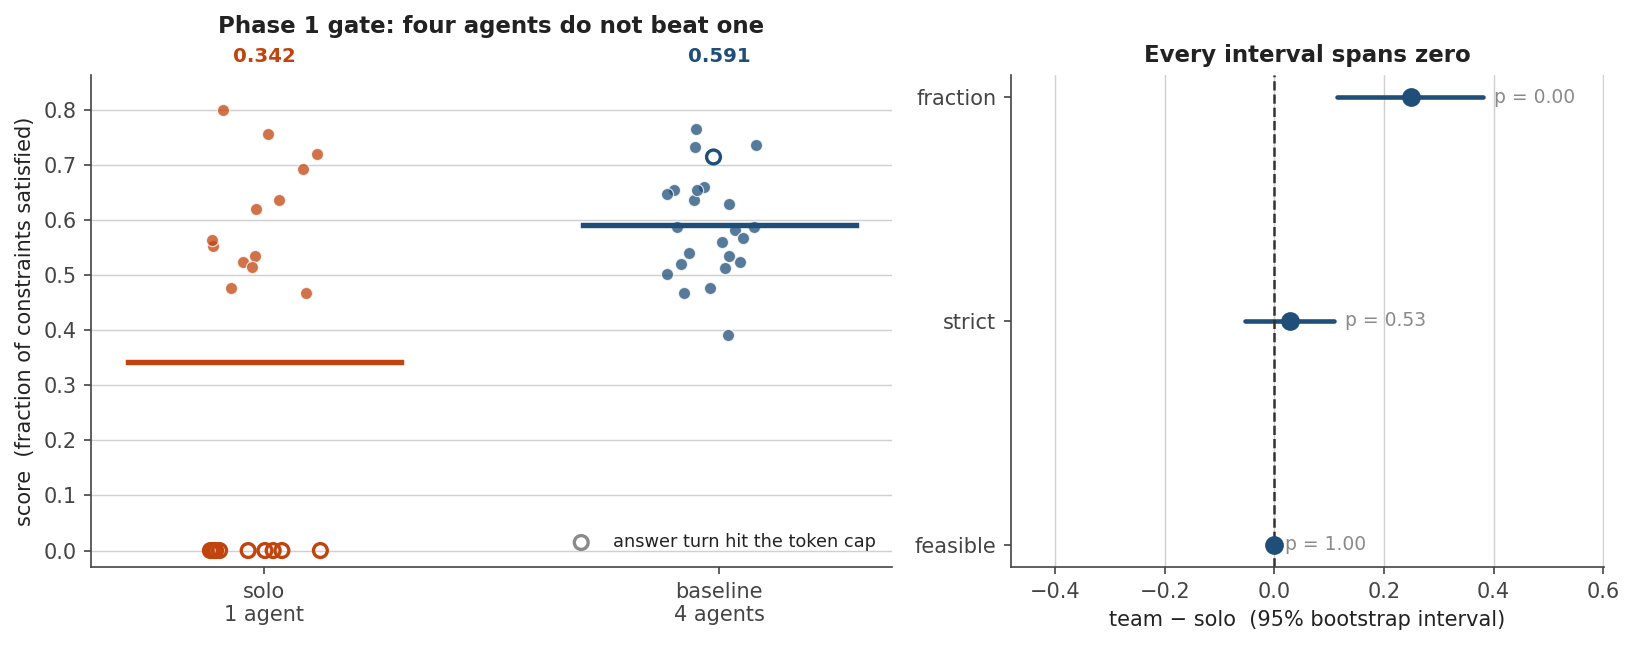
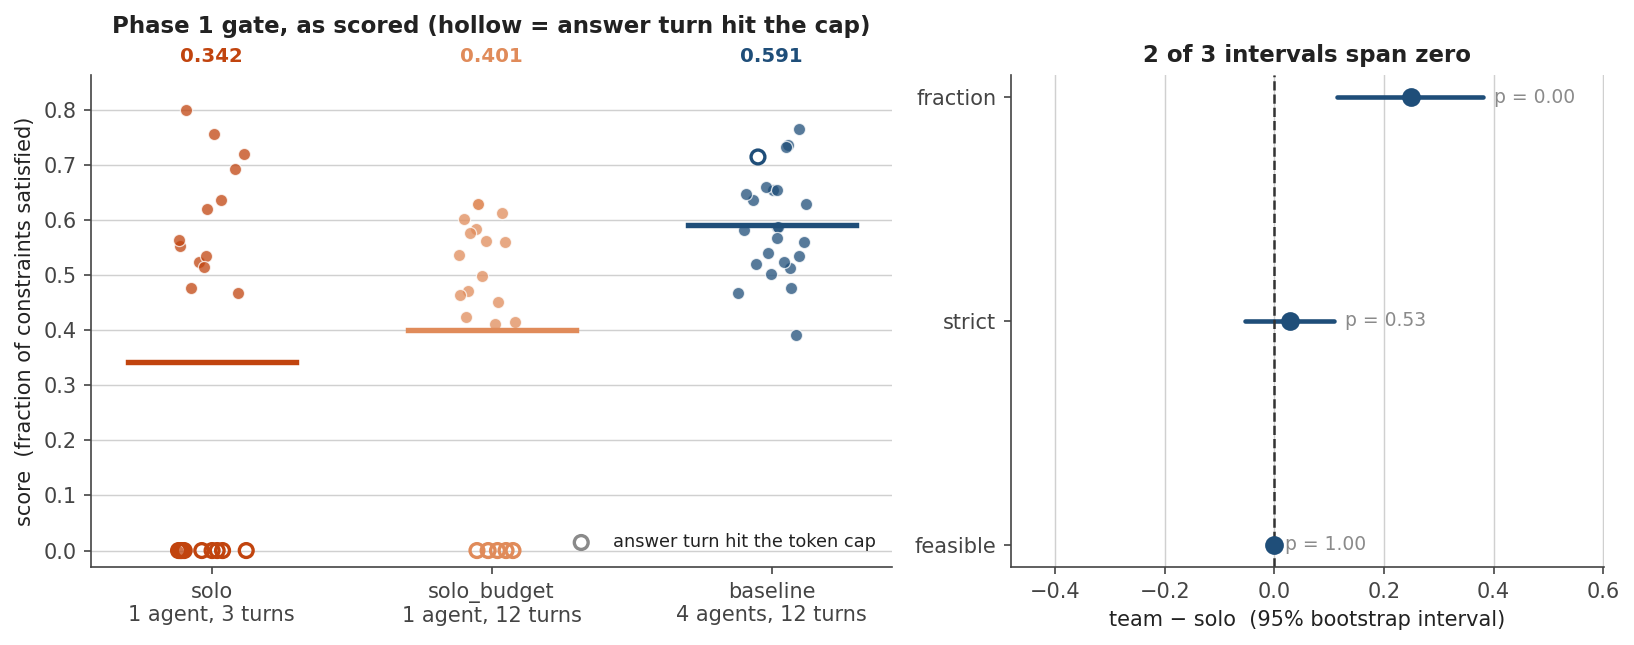
C4 at xhard: +0.003, p=0.962 -- withdraw the two-tier claim
The matched-budget effect does not survive the third tier. Controlled gaps
run +0.082, +0.059, +0.003 at p = 0.039, 0.045, 0.962: two results barely
under the threshold and one at zero, declining monotonically along the
independent variable. This log retracted the 4.1b variance claim for
exactly that profile, and the same standard applies here.

It also fails for a reason worth more than the failure. The gap closes
because the team declines -- 0.631 -> 0.585 -> 0.530 -- not because the
lone agent improves; solo_budget is flat at 0.549/0.526/0.527. Only the
team trends, and it trends down, with its own repetition rate rising to 11%
at xhard. Whatever keeps four agents out of a loop weakens as instances
grow, which is the opposite of the scaling H1 assumed.

What survives all three tiers is not about teams: three-turn solo is the
best configuration measured, ahead at two of three points on ~2,400 output
tokens against the team's ~5,400, and a lone agent given four times the
budget is worse at every tier.

4.12b keeps the withdrawn version verbatim. The word that did the damage
was "reproducible", written across two points about a quantity already
falling between them. Two points are not a replication when the effect is
shrinking between them, and p=0.039 with p=0.045 is one weak signal
measured twice, not two confirmations.

Figures: the gate panel titles asserted conclusions the data had stopped
supporting -- "Every interval spans zero" while fraction sat at p<0.001
[…]

diff --git a/scripts/figures.py b/scripts/figures.py
@@ -55,9 +55,12 @@ TEAM_LIGHT = "#7ba7cc"
 GREY = "#8a8a8a"
 RULE = "#d0d0d0"
 
+SOLO_LIGHT = "#e08b5a"
+
 ARMS = [
-    ("solo", "solo\n1 agent", SOLO),
-    ("baseline", "baseline\n4 agents", TEAM),
+    ("solo", "solo\n1 agent, 3 turns", SOLO),
+    ("solo_budget", "solo_budget\n1 agent, 12 turns", SOLO_LIGHT),
+    ("baseline", "baseline\n4 agents, 12 turns", TEAM),
     ("symmetry:name_seed_scratch", "symmetry\nname+seed", TEAM_LIGHT),
     ("fixed_order", "fixed order\ncontrol", TEAM_LIGHT),
 ]
@@ -193,7 +196,13 @@ def fig_gate(by, out: Path, cut_flags: dict[str, list[bool]] | None = None) -> N
     ax1.set_xticks(range(len(ARMS)))
     ax1.set_xticklabels([a[1] for a in ARMS])
     ax1.set_ylabel("score  (fraction of constraints satisfied)")
-    ax1.set_title("Phase 1 gate: four agents do not beat one", pad=20)
+    # "four agents do not beat one" was the controlled conclusion printed over
+    # uncontrolled points. On the served `hard` corpus the raw means are 0.342
+    # against 0.591 and the panel plainly shows the team ahead, so the old title
+    # contradicted its own figure. Say what is drawn; the caption carries the
+    # conclusion.
+    ax1.set_title("Phase 1 gate, as scored (hollow = answer turn hit the cap)",
+                  pad=20)
     if marked:
         ax1.scatter([], [], s=44, facecolor="none", edgecolor=GREY, linewidth=1.6,
                     label="answer turn hit the token cap")
@@ -221,7 +230,12 @@ def fig_gate(by, out: Path, cut_flags: dict[str, list[bool]] | None = None) -> N
     ax2.set_yticks(list(ys))
     ax2.set_yticklabels([r[0] for r in rows])
     ax2.set_xlabel("team − solo  (95% bootstrap interval)")
-    ax2.set_title("Every interval spans zero")
+    # Derived, not asserted. This read "Every interval spans zero" for as long
+    # as that happened to be true, and stayed on the figure when `hard` came
+    # back at p < 0.001 with an interval clear of zero.
+    spans = sum(1 for _, _, lo, hi, _ in rows if lo <= 0 <= hi)
+    ax2.set_title("Every interval spans zero" if spans == len(rows)
+                  else f"{spans} of {len(rows)} intervals span zero")
     span = max(abs(v) for r in rows for v in (r[2], r[3])) if rows else 0.5
     ax2.set_xlim(-span - 0.10, span + 0.22)  # room on the right for the p labels
     ax2.invert_yaxis()

diff --git a/docs/RESEARCH-LOG.md b/docs/RESEARCH-LOG.md
@@ -1569,7 +1569,9 @@ and the other having twelve to discuss one.
 
 ### 4.12 C4: the budget confound reverses, and what the team is actually buying
 
-*`medium` and `hard` complete and replicating; `xhard` still generating.*
+*All three tiers complete. The headline of the first two does not survive the
+third; this section was rewritten rather than extended, and §4.12b records what
+it originally said.*
 
 The matched-budget arm — one agent, 1×12 rounds against the team's 4×3, identical
 per-turn cap, same seeds, same server — is the estimator §4.9 said was needed
@@ -1613,49 +1615,91 @@ and far less repetitive, because each agent is responding to something new.
 
 **What this does and does not license.**
 
-**It replicates at `hard`.** +0.190 raw (*p* < 0.001), **+0.059 controlled
-(*p* = 0.045)**, against `medium`'s +0.082 (*p* = 0.039). Two tiers, same
-direction, similar magnitude, both surviving the truncation control that killed
-every other positive result in this project.
+**It does not survive `xhard`.** The controlled C4 gap across the three tiers:
 
-**The three arms, controlled, at both tiers:**
+| controlled `fraction` | solo (3t) | solo_budget (12t) | team (12t) | **C4 gap** | *p* |
+|---|---|---|---|---|---|
+| `medium` | **0.654** | 0.549 | 0.631 | +0.082 | 0.039 |
+| `hard` | 0.561 | 0.526 | **0.585** | +0.059 | 0.045 |
+| `xhard` | **0.586** | 0.527 | 0.530 | **+0.003** | **0.962** |
+| tokens/episode | ~2,100–2,700 | **~8,500–9,300** | ~4,400–6,800 | | |
+| consecutive turns >80% repeated | 0–4% | **25–33%** | 2–11% | | |
 
-| controlled `fraction` | solo (3 turns) | solo_budget (12 turns) | team (12 turns) |
-|---|---|---|---|
-| `medium` | **0.654** | 0.549 | 0.631 |
-| `hard` | 0.561 | 0.526 | **0.585** |
-| tokens/episode | ~2,100 | ~8,700 | ~4,800 |
-| consecutive turns >80% repeated | 0–4% | **25–33%** | 2–7% |
+**+0.082, +0.059, +0.003 at *p* = 0.039, 0.045, 0.962.** Two operating points
+just under the threshold and one squarely at zero, with the effect declining
+monotonically along the independent variable. **That is not a robust finding, and
+this log has already retracted one claim with exactly this profile** — the
+variance effect of §4.1b, present in one arm at *p* = 0.019 and absent in the
+other two. The standard applied there applies here.
 
-**This is the shape of the result, and it is not "four agents beat one".**
+**And it fails for a reason that matters more than the failure.** The C4 gap
+closes at `xhard` because the *team* declines — 0.631 → 0.585 → 0.530 — not
+because the lone agent improves. `solo_budget` is flat across the curve (0.549,
+0.526, 0.527) and so, roughly, is three-turn `solo` (0.654, 0.561, 0.586). Only
+the team has a trend, and it points down. The team's own repetition rate rises to
+11% at `xhard` against 2% at `hard`, and its token spend rises 4,443 → 6,779.
+**Whatever protects four agents from talking in circles weakens as the instance
+grows**, which is the opposite of the scaling H1 assumed.
 
-*Against the cheap baseline, the team is a coin flip at 2.2× the cost.* Solo at
-three turns scores 0.654 against the team's 0.631 at `medium`, and 0.561 against
-0.585 at `hard` — one each way, both small, neither significant. The team spends
-roughly 2.2× the output tokens to draw with the simplest configuration tested.
+**What survives all three tiers.** One thing does, and it is not about teams:
 
-*Against the matched-budget baseline, the team wins consistently.* And the reason
-is visible in the last row: a lone agent forced through twelve turns spends
-33% of its consecutive turns restating what it just said, and each restatement is
-another chance to break a constraint it had already satisfied. Team agents,
-responding to something new each turn, repeat 2–7% of the time.
+*The cheap single agent is the best configuration measured.* Controlled,
+three-turn `solo` scores 0.654 / 0.561 / 0.586 against the team's 0.631 / 0.585 /
+0.530 — ahead at two of three points, behind at one, and doing it on **~2,400
+output tokens against the team's ~5,400**. Nothing here beats one agent given
+three turns and a token budget it can actually spend on an answer.
 
-*So what the multi-agent structure demonstrably buys is not better reasoning but
-protection against single-agent long-horizon degradation.* Turn count, per-turn
-cap, model, instances and seeds are identical between `solo_budget` and the team;
-the only difference is whether twelve turns come from one voice or four, and one
-voice talks itself in circles. That is a real and reproducible effect. It is also
-a much narrower claim than the hypothesis this project set out to test, and it
-does not require any specialization to explain — four agents need not divide
-labour to avoid repeating each other, they need only be responding to different
-things.
+*And more turns make a lone agent worse, consistently.* `solo_budget` is below
+three-turn `solo` at every tier — 0.549 vs 0.654, 0.526 vs 0.561, 0.527 vs
+0.586 — on four times the budget. The measured mechanism is restatement: 25–33%
+of its consecutive turns repeat the previous by more than 80% of their words,
+against 0–4% for `solo`. Each restatement is another chance to break a constraint
+it had already satisfied.
 
-*The comparison arm has a known defect, and it inflates the team.* `solo_budget`
-runs a protocol built for multi-party turn-taking, with the `n=1` brief §4.9
-documents. A purpose-built long-form single-agent baseline — one that does not
-re-emit the whole answer every turn — would very likely close most of this gap.
-**+0.059 to +0.082 is an upper bound on the structural effect**, not an estimate
-of it. The gate is not cleared, and this section does not claim it is.
+**So the honest reading of C4 is a null with a caveat, not a positive.** The
+multi-agent structure does not reliably beat a matched-budget single agent; where
+it appears to, the margin is small, barely significant, and gone at the hardest
+point. The one durable asymmetry is that a lone agent handles a long turn budget
+badly — and `solo_budget` runs a protocol built for four, under the `n=1` brief
+§4.9 documents, so even that is partly the harness's doing rather than the
+model's. **The gate is not cleared. Nothing in this project clears it.**
+
+---
+
+### 4.12b What §4.12 said after two tiers — **withdrawn the same day**
+
+Preserved verbatim in substance, because this log's rule is that a claim which
+was written down gets retracted in public rather than edited away, and because
+the shape of the mistake is the same one §4.1b made.
+
+After `medium` and `hard`, §4.12 read:
+
+> **The team beats one agent at matched budget: +0.253, *p* < 0.001; +0.082,
+> *p* = 0.039 with answer-turn truncation controlled.** It is the first
+> comparison in this project to survive that control. … **It replicates at
+> `hard`.** +0.190 raw, **+0.059 controlled (*p* = 0.045)**. Two tiers, same
+> direction, similar magnitude, both surviving the truncation control that
+> killed every other positive result in this project. … *So what the multi-agent
+> structure demonstrably buys is not better reasoning but protection against
+> single-agent long-horizon degradation.* … That is a real and reproducible
+> effect.
+
+`xhard` returned +0.003 at *p* = 0.962. The word that did the damage is
+**"reproducible"**, written on two points that agreed, about a quantity that was
+already declining between them: 0.082 then 0.059. The decline was visible in the
+data I had, and I read two barely-significant results in the same direction as
+replication instead of as a trend toward zero.
+
+**Two points are not a replication when the effect is shrinking between them.**
+That is the generalisable form, and it is a sharper version of the lesson §4.1b
+already taught: *p* = 0.039 and *p* = 0.045 are not two independent confirmations
+at *p* < 0.05, they are one weak signal measured twice on a curve that had one
+more point coming.
+
+I also called `solo_budget`'s degradation "protection against single-agent
+long-horizon degradation" *bought by the team*. The third tier shows the team
+degrading too, just more slowly and from a higher start — so the effect was never
+protection, only a difference in rate that closes as instances grow.
 
 ---
 

diff --git a/README.md b/README.md
@@ -61,24 +61,23 @@ So the gate still fails, and the reason to believe that is the same reason as be
 
 **The honest limit on that last column.** Controlling for answer-turn truncation costs most of the solo arm at the hard end — usable *n* falls 22 → 17 → 9. At `xhard` the controlled comparison rests on nine solo episodes, so −0.056 is a weak estimate and its *p* reflects that. The claim these three rows jointly support is not that the team is *worse*; it is that **no controlled comparison at any operating point shows the team ahead**, and every uncontrolled one that did was tracking a truncation rate that grew with the independent variable. Full accounting in [RESEARCH-LOG §4.9–4.11](docs/RESEARCH-LOG.md).
 
-### The one comparison that survives the control
+### The matched-budget control, and why it does not rescue the team either
 
 The gate compares 4 agents × 3 rounds against 1 agent × 3 rounds — which is not a matched comparison. The team spends roughly **2× the output tokens across 4× the forward passes**, so "four agents beat one" has never been separable from "more tokens beat fewer". The `solo_budget` arm gives one agent the team's whole turn budget (1 × 12 rounds, same per-turn cap) to separate them.
 
-| controlled `fraction` | solo, 3 turns | solo_budget, 12 turns | team, 12 turns |
-|---|---|---|---|
-| **medium** | **0.654** | 0.549 | 0.631 |
-| **hard** | 0.561 | 0.526 | **0.585** |
-| tokens / episode | ~2,100 | **~8,700** | ~4,800 |
-| consecutive turns >80% repeated | 0–4% | **25–33%** | 2–7% |
+| controlled `fraction` | solo, 3 turns | solo_budget, 12 turns | team, 12 turns | team − solo_budget |
+|---|---|---|---|---|
+| **medium** | **0.654** | 0.549 | 0.631 | +0.082 (*p* = 0.039) |
+| **hard** | 0.561 | 0.526 | **0.585** | +0.059 (*p* = 0.045) |
+| **xhard** | **0.586** | 0.527 | 0.530 | **+0.003 (*p* = 0.962)** |
+| tokens / episode | ~2,400 | **~8,900** | ~5,400 | |
+| consecutive turns >80% repeated | 0–4% | **25–33%** | 2–11% | |
 
-Two readings that sound contradictory and are not. **Against the cheap three-turn baseline the team is a coin flip at 2.2× the cost** — one tier each way, neither significant. **Against the matched-budget baseline the team wins at both tiers** (+0.082, *p* = 0.039; +0.059, *p* = 0.045), and these are the only positive results in this project to survive the truncation control.
+**+0.082, +0.059, +0.003.** The effect declines monotonically along the independent variable and is gone at the hardest point — two results barely under 0.05 and one squarely at zero. That is not a replication, and this project has already withdrawn one claim with exactly that profile. It fails for a reason worth noting too: the gap closes because the **team** declines (0.631 → 0.585 → 0.530), not because the lone agent improves.
 
-The last row reconciles them: a lone agent driven through twelve turns spends a third of them restating what it just said, and each restatement is another chance to break a constraint it had already satisfied. Team agents repeat 2–7% of the time, because each is responding to something new. **What the multi-agent structure demonstrably buys is protection against single-agent long-horizon degradation, not better reasoning** — and that requires no role specialisation to explain, which is a far narrower claim than the one this project set out to test.
+**What does survive all three tiers has nothing to do with teams.** The cheap single agent is the best configuration measured — three turns, ~2,400 output tokens, ahead of the team at two of three operating points on less than half the generation. And a lone agent given four times the budget gets *worse* at every tier, because 25–33% of its consecutive turns restate the previous one and each restatement is another chance to break a constraint it had already satisfied.
 
-Also note the direction: the team wins while generating *less*. The budget confound does not merely wash out, it reverses.
-
-> **This is exploratory and bounded above.** `solo_budget` was built and run the same day, in response to the measurement that motivated it — it is not preregistered, and [PREREG-xhard](docs/PREREG-xhard.md) says so. It also drives one agent through a protocol built for four, so a purpose-built long-form single-agent baseline would likely close much of the gap. Treat +0.059–0.082 as an upper bound, not an estimate. `xhard` is still generating.
+> **Exploratory, and bounded above.** `solo_budget` was built and run the same day in response to the measurement that motivated it — not preregistered, and [PREREG-xhard](docs/PREREG-xhard.md) says so. It also drives one agent through a protocol built for four, so part of its degradation is the harness's doing rather than the model's. See [RESEARCH-LOG §4.12](docs/RESEARCH-LOG.md) for the result and §4.12b for the two-tier version of this section, withdrawn the same day it was written.
 
 PLAN.md makes this a stop condition, so the ablation grid was not run: an agent × component interaction measured where the team contributes nothing would be measuring the noise floor.
 
